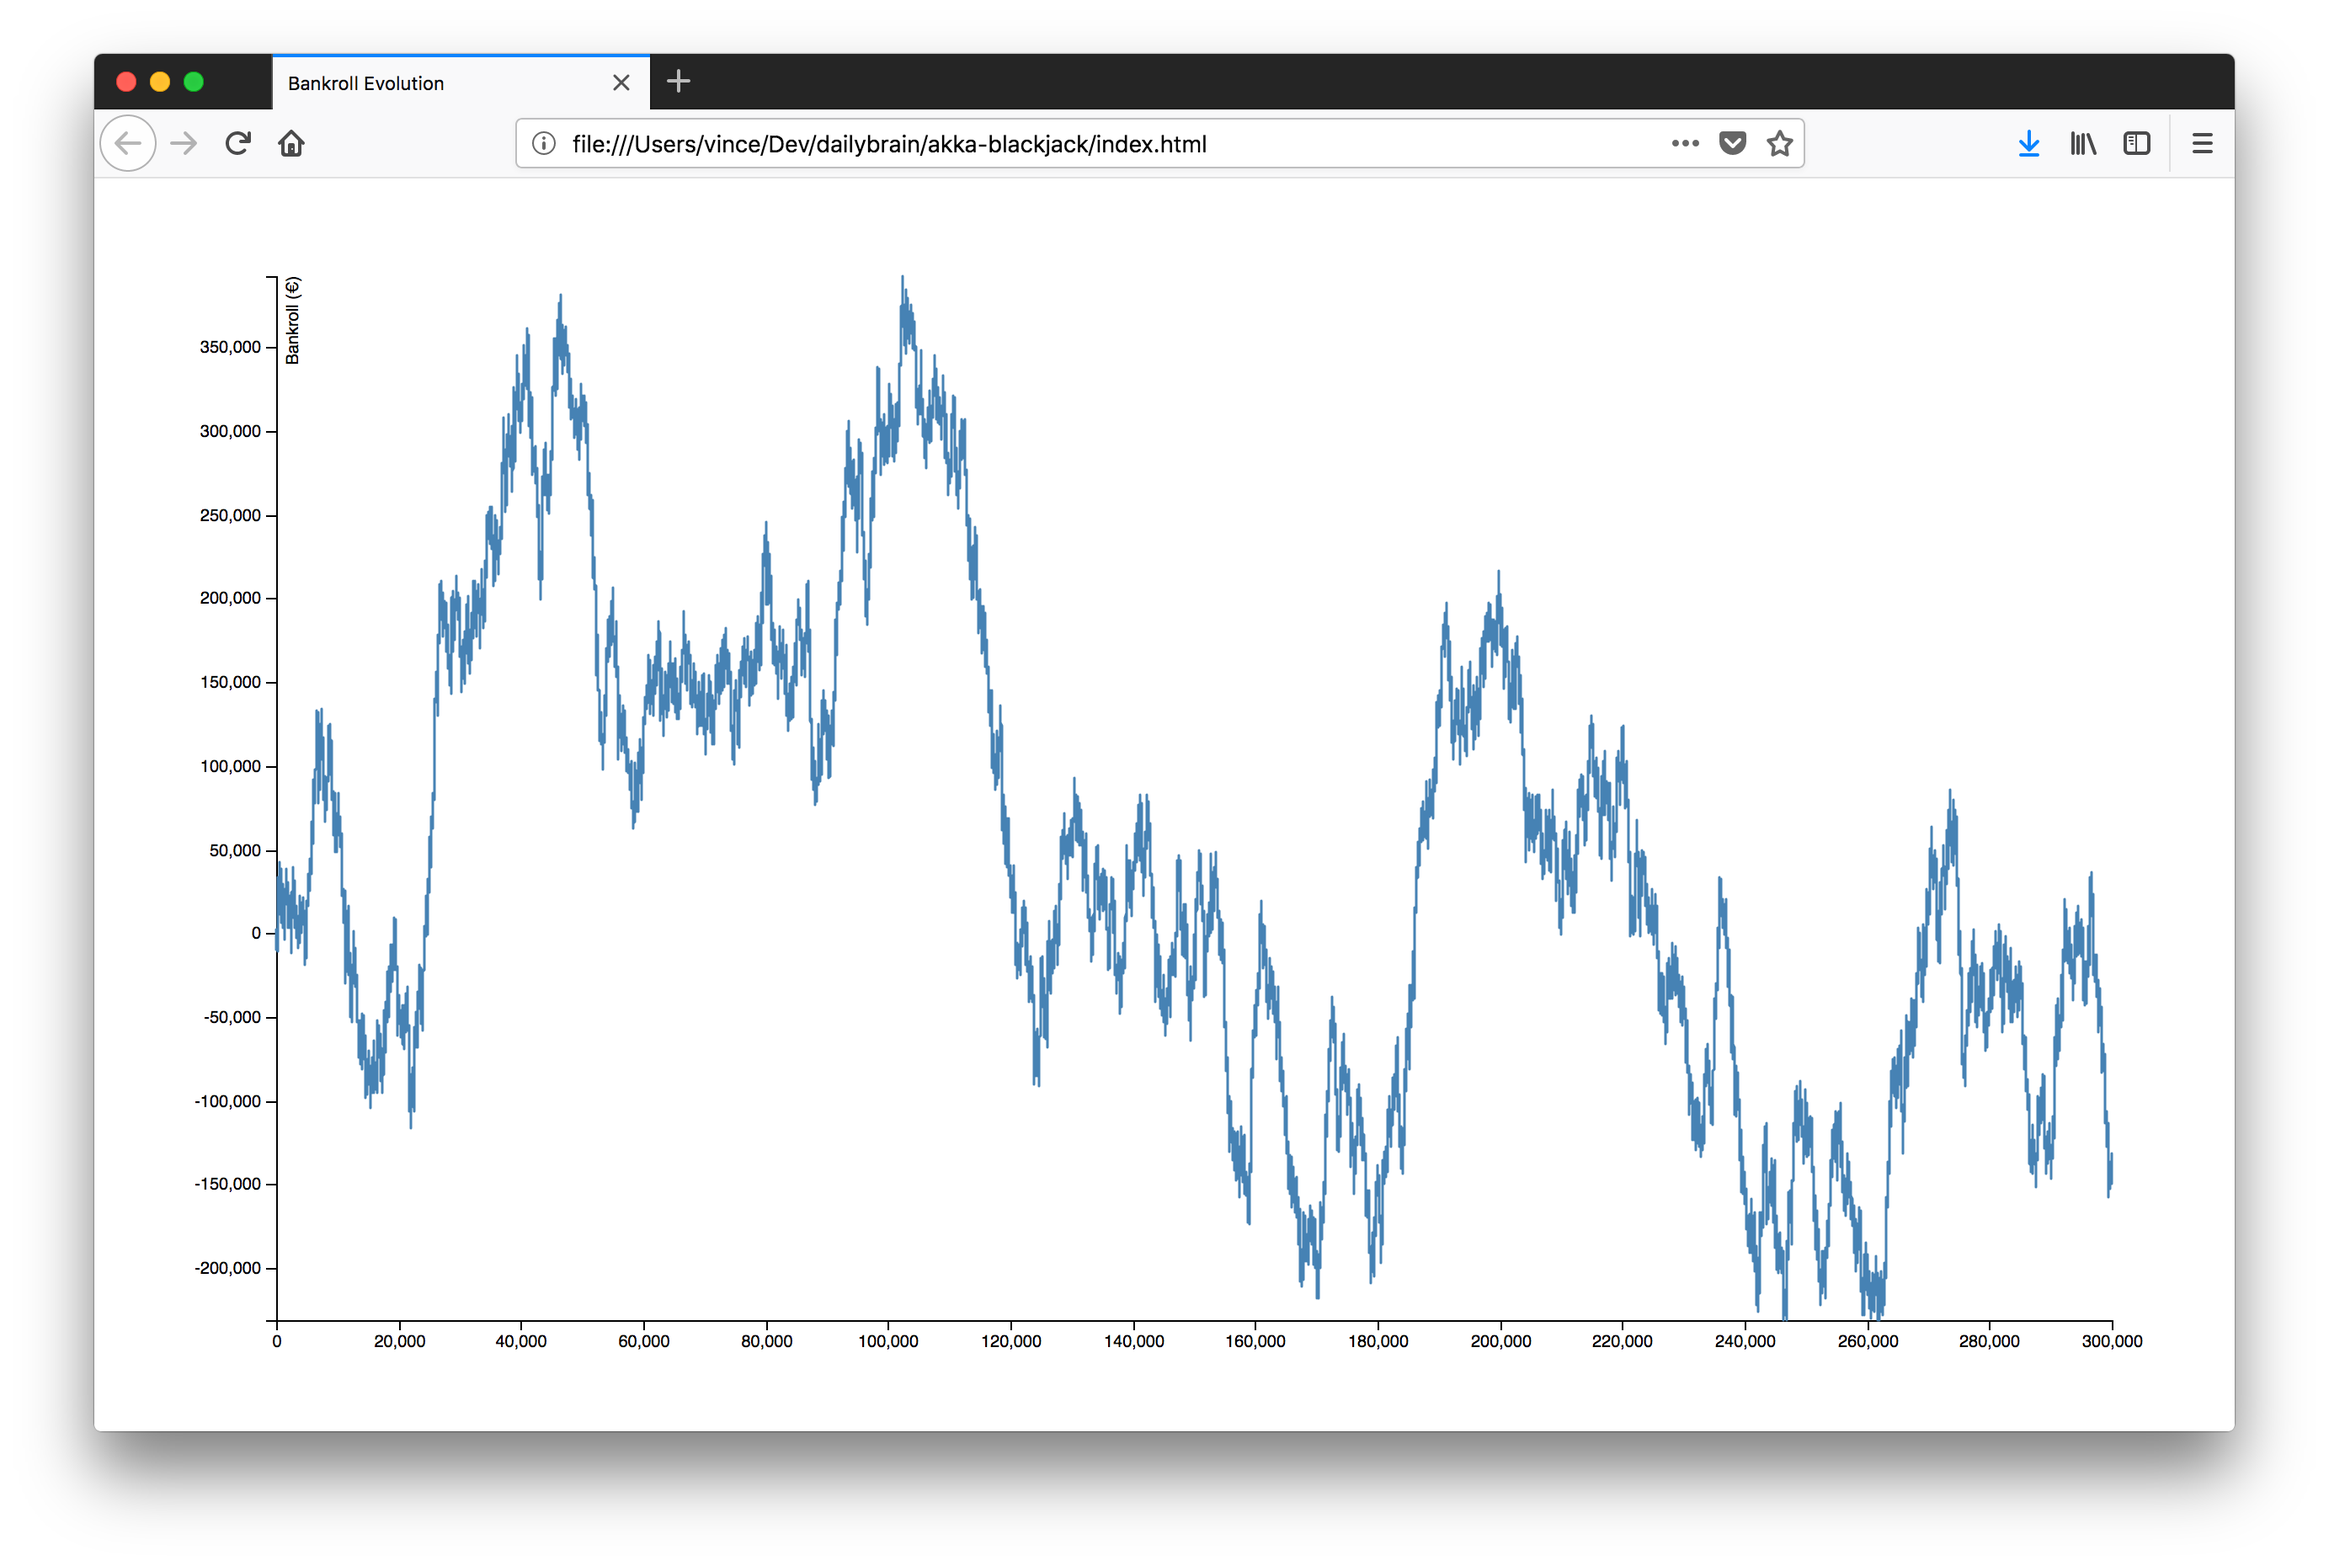
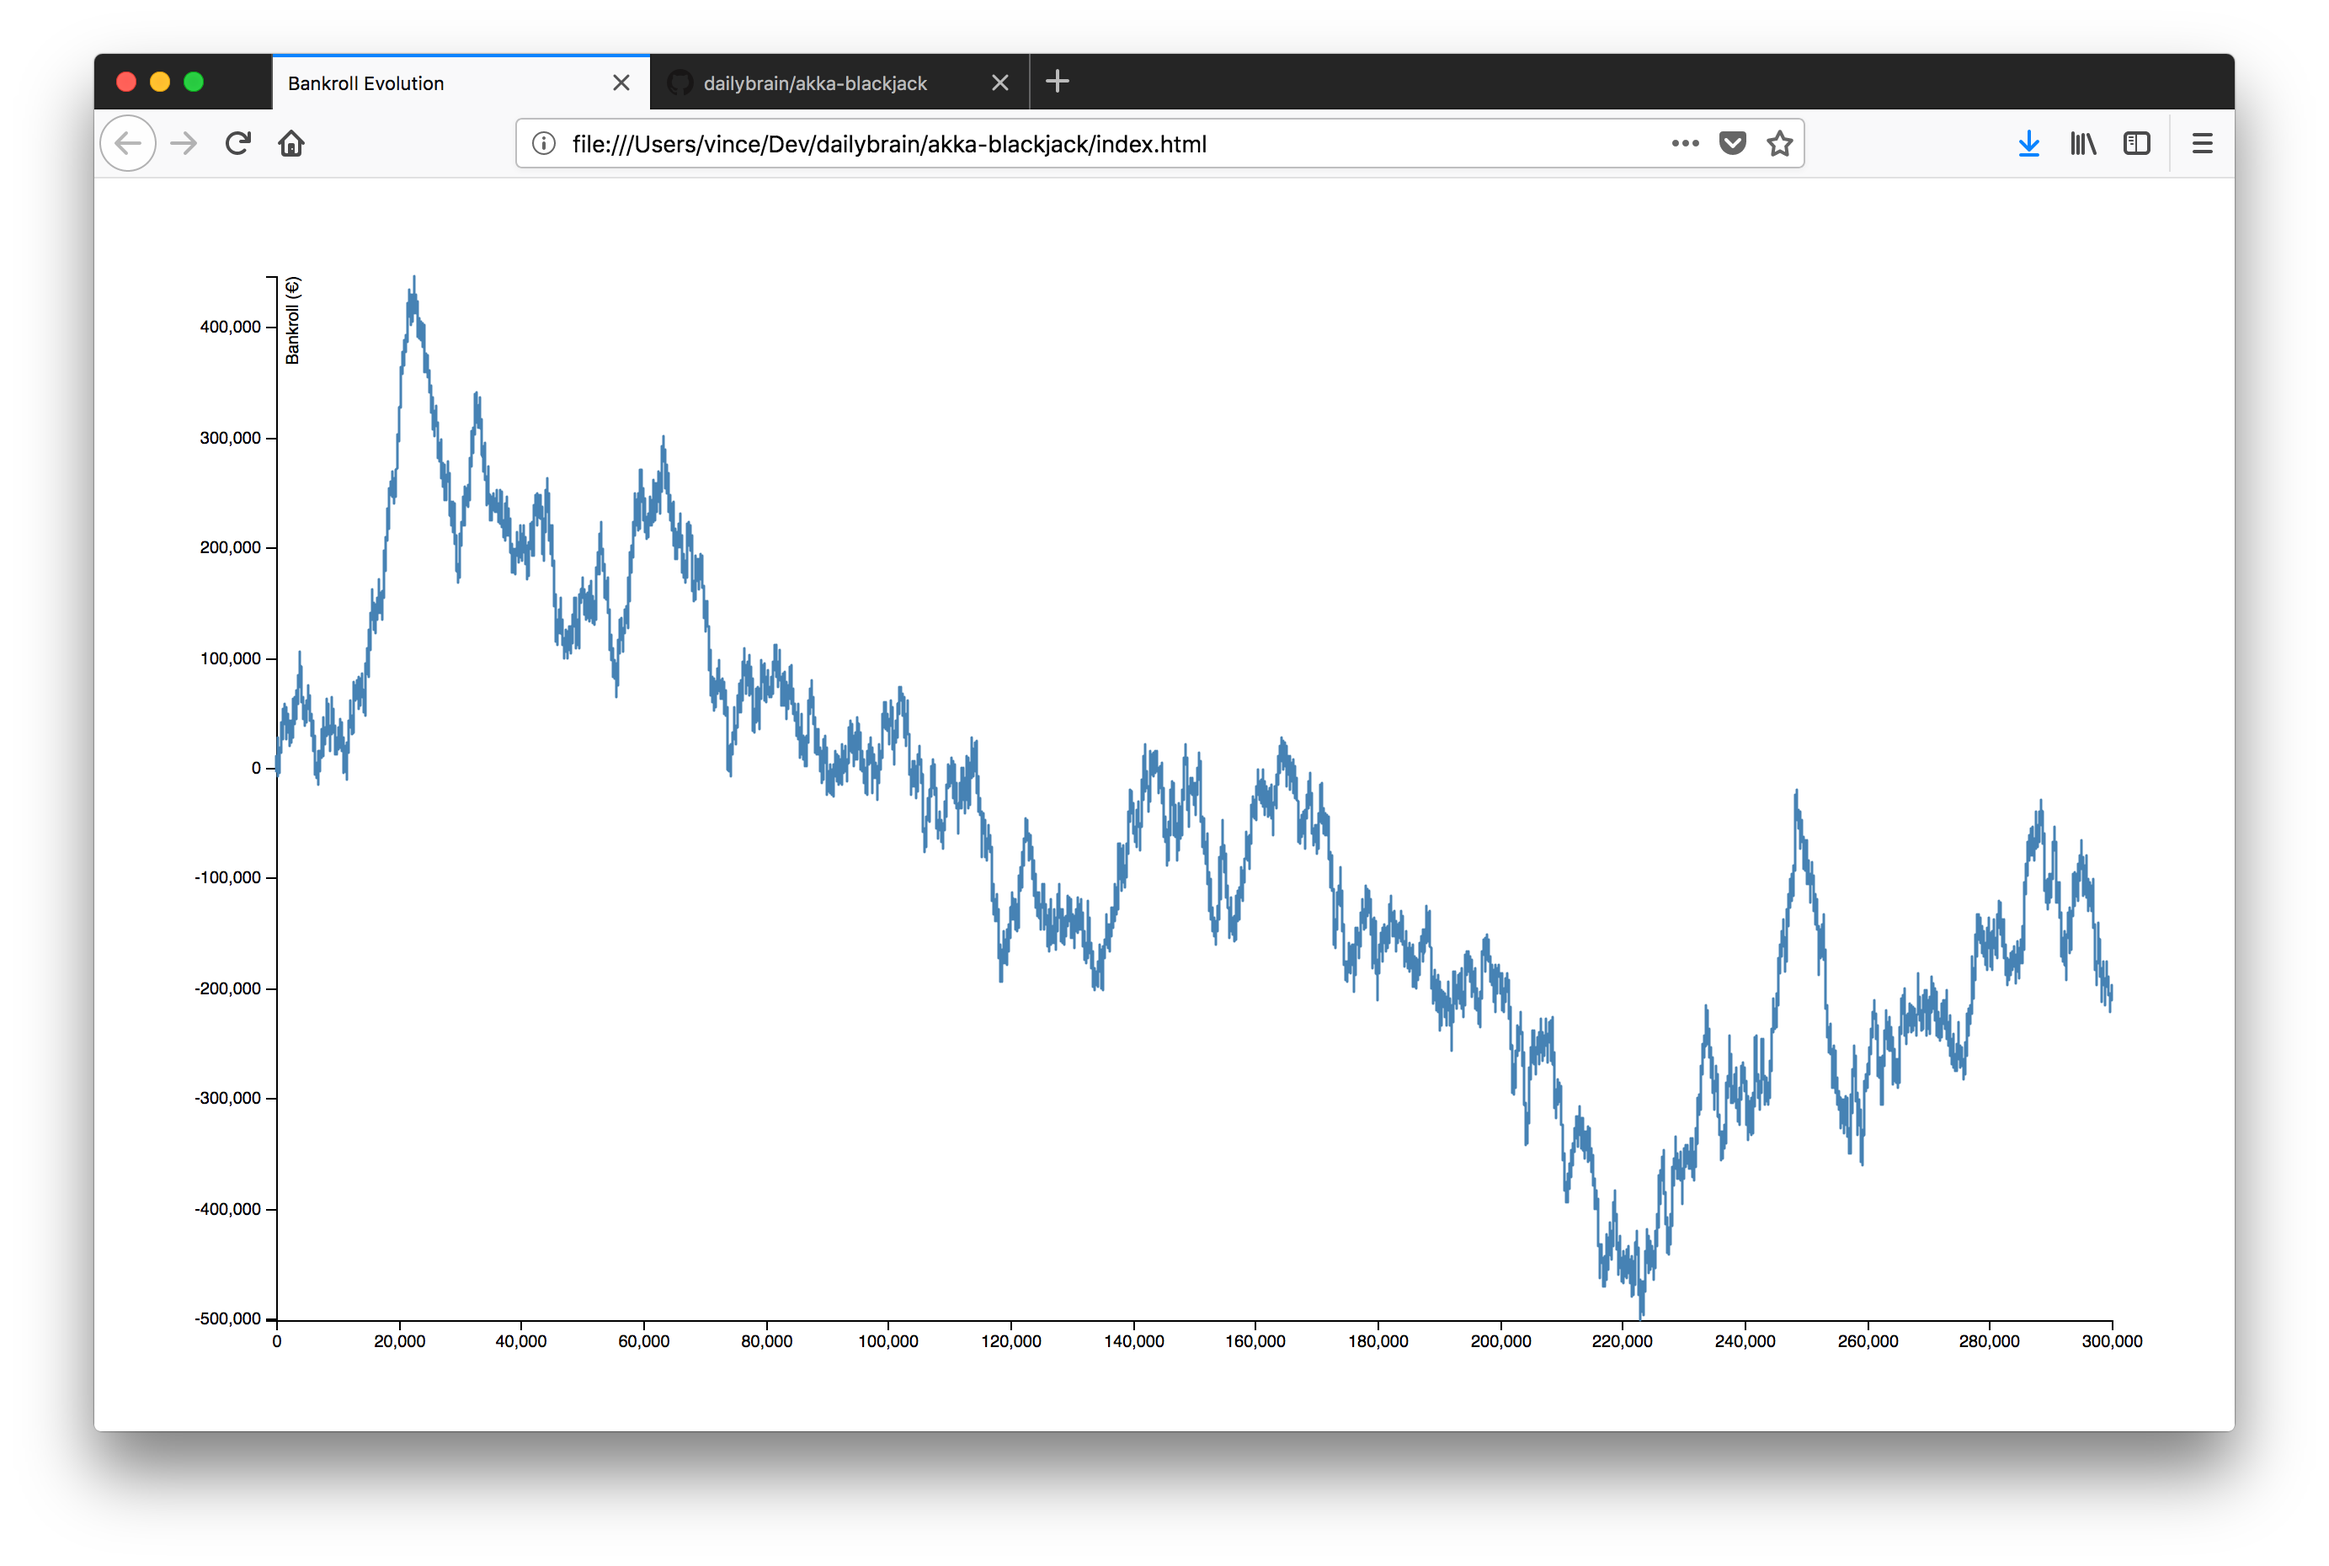
Update huge loss & title

diff --git a/README.md b/README.md
@@ -40,9 +40,9 @@ You can beat the [variance](https://en.wikipedia.org/wiki/Variance) by increasin
 ### 4 Millions after 3 Years
 ![Long Run](src/main/resources/assets/long-run.png)
 
-### Huge Swing | -450k +350k after 1 year
+### Huge Swing | -450k to +350k after 1 year
 ![Huge Win](src/main/resources/assets/huge-swing.png)
 
-### Huge Loss | -142k after 1 year
+### Huge Loss | -500k to -200k after 1 year
 ![Huge Loss](src/main/resources/assets/huge-loss.png)
 
